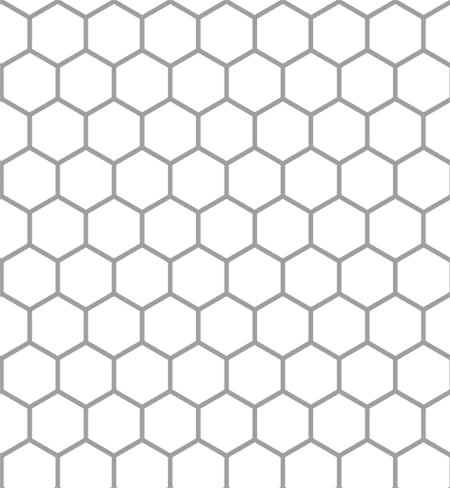
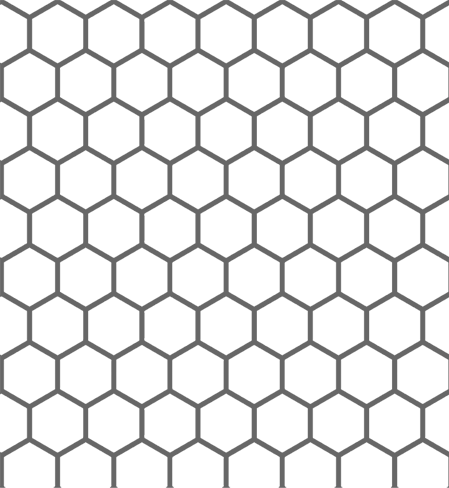
Correções no fundo + adições de palavras

Changed region(s): [[0.0, 0.0, 1.0, 1.0], [0.0, 0.5225, 0.0312, 0.6148], [0.0, 0.123, 0.0312, 0.2152]]

diff --git a/src/styles.css b/src/styles.css
@@ -15,7 +15,7 @@ body {
   align-items: center;
   font-family: 'Mukta', sans-serif;
   visibility: visible;
-  background-image: url("./public/fundo2.png");
+  background-image: url("./public/fundo.png");
 }
 
 .letra {
